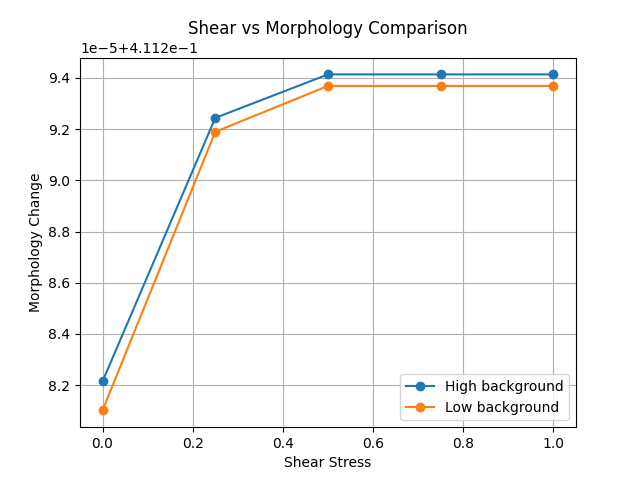
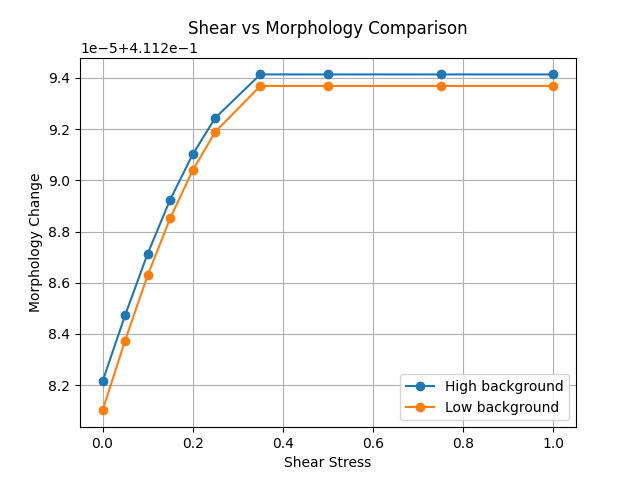
Refine shear response comparison outputs

Changed region(s): [[0.1562, 0.125, 0.5312, 0.8438]]

diff --git a/src/grn_engine/test_shear_response.py b/src/grn_engine/test_shear_response.py
@@ -12,7 +12,7 @@ OUTPUT_DIR.mkdir(parents=True, exist_ok=True)
 def run_experiment(model, condition_name, collision, chemical):
     print(f"\n=== Running {condition_name} ===")
 
-    test_values = [0.0, 0.25, 0.5, 0.75, 1.0]
+    test_values = [0.0, 0.05, 0.1, 0.15, 0.2, 0.25, 0.35, 0.5, 0.75, 1.0]
     results = []
 
     for shear in test_values:
